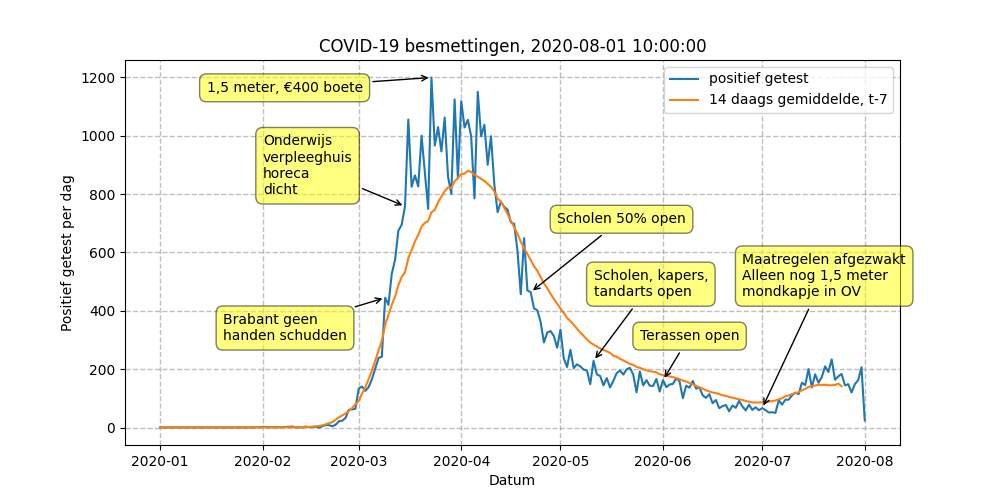
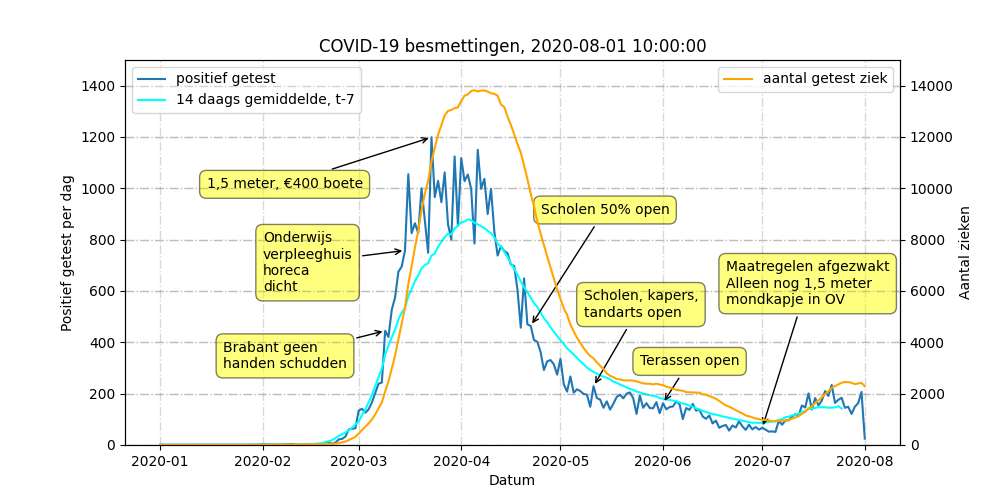
Fancier graph

diff --git a/scripts/createGraph.py b/scripts/createGraph.py
@@ -22,16 +22,31 @@ with open('../cache/COVID-19_casus_landelijk.json', 'r') as json_file:
 
 x = []
 y = []
+
 a = []
 avg = 0
 avgsize = 14
 
+z = []
+ziek = 0
+ziekteduur = 14
+
+# print("2020-01-30")
+# print((parser.parse("2020-01-30") - datetime.timedelta(days=ziekteduur)).strftime("%Y-%m-%d"))
+# exit
+
 for datum in metenisweten:
     x.append(parser.parse(datum))
     y.append(metenisweten[datum]['positief'])
-
+   
     avg = (avg * (avgsize-1) /avgsize) + (metenisweten[datum]['positief'] / avgsize)
     a.append(avg)
+
+    beterdag = (parser.parse(datum) - datetime.timedelta(days=ziekteduur)).strftime("%Y-%m-%d")
+    ziek = ziek + metenisweten[datum]['positief']
+    if beterdag in metenisweten:
+        ziek = ziek - metenisweten[beterdag]['positief']
+    z.append(ziek)
 
 
 def anotate(plt, metenisweten, datum, tekst, x, y):
@@ -43,30 +58,40 @@ def anotate(plt, metenisweten, datum, tekst, x, y):
         arrowprops=dict(arrowstyle = '->', connectionstyle='arc3,rad=0')
     )
 
+fig, ax1 = plt.subplots(figsize=(10,5))
+ax2 = plt.twinx()
 
-
-plt.figure(figsize=(10,5))
-plt.grid(which='both', axis='both', linestyle='--', color='gray', linewidth=1, alpha=0.5)
+#plt.figure(figsize =(10,5))
+ax1.grid(which='both', axis='both', linestyle='-.', color='gray', linewidth=1, alpha=0.3)
+ax2.grid(which='both', axis='both', linestyle='-.', color='gray', linewidth=1, alpha=0.3)
 
 # Plot cases per dag
-plt.plot(x,y,label='positief getest')
+ax1.plot(x,y,label='positief getest')
 
-anotate(plt, metenisweten, "2020-03-09", 'Brabant geen\nhanden schudden', "2020-01-20", 300)
-anotate(plt, metenisweten, "2020-03-15", 'Onderwijs\nverpleeghuis\nhoreca\ndicht', "2020-02-01", 800)
-anotate(plt, metenisweten, "2020-03-23", '1,5 meter, €400 boete', "2020-01-15", 1150)
-anotate(plt, metenisweten, "2020-04-22", 'Scholen 50% open', "2020-04-30", 700)
-anotate(plt, metenisweten, "2020-05-11", 'Scholen, kapers,\ntandarts open', "2020-05-11", 450)
-anotate(plt, metenisweten, "2020-06-01", 'Terassen open', "2020-05-25", 300)
-anotate(plt, metenisweten, "2020-07-01", 'Maatregelen afgezwakt\nAlleen nog 1,5 meter\nmondkapje in OV', "2020-06-25", 450)
+anotate(ax1, metenisweten, "2020-03-09", 'Brabant geen\nhanden schudden', "2020-01-20", 300)
+anotate(ax1, metenisweten, "2020-03-15", 'Onderwijs\nverpleeghuis\nhoreca\ndicht', "2020-02-01", 600)
+anotate(ax1, metenisweten, "2020-03-23", '1,5 meter, €400 boete', "2020-01-15", 1000)
+anotate(ax1, metenisweten, "2020-04-22", 'Scholen 50% open', "2020-04-25", 900)
+anotate(ax1, metenisweten, "2020-05-11", 'Scholen, kapers,\ntandarts open', "2020-05-08", 500)
+anotate(ax1, metenisweten, "2020-06-01", 'Terassen open', "2020-05-25", 310)
+anotate(ax1, metenisweten, "2020-07-01", 'Maatregelen afgezwakt\nAlleen nog 1,5 meter\nmondkapje in OV', "2020-06-20", 550)
 
 # Plot average per dag
 ax = a[int(avgsize/2):]
 xx = x[:len(ax)]
-plt.plot(xx,ax,label=str(avgsize)+' daags gemiddelde, t-'+str(int(avgsize/2)))
+ax1.plot(xx,ax,color='cyan', label=str(avgsize)+' daags gemiddelde, t-'+str(int(avgsize/2)))
 
-plt.xlabel("Datum")
-plt.ylabel("Positief getest per dag")
+ax2.plot(x,z,color='orange', label='aantal getest ziek')
+
+ax1.set_xlabel("Datum")
+ax1.set_ylabel("Positief getest per dag")
+ax2.set_ylabel("Aantal zieken")
+
+ax1.set_ylim([0, 1500])
+ax2.set_ylim([0, 15000])
+
 plt.title('COVID-19 besmettingen, '+filedate)
-plt.legend()
+ax1.legend(loc="upper left")
+ax2.legend(loc="upper right")
 plt.savefig("../graphs/besmettingen.png")
 #plt.show()
